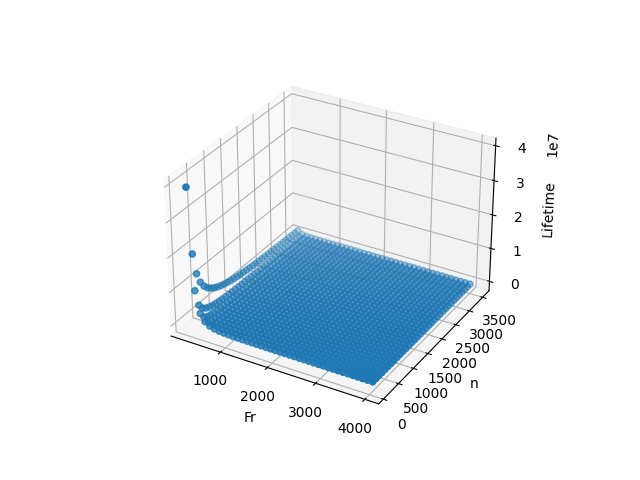
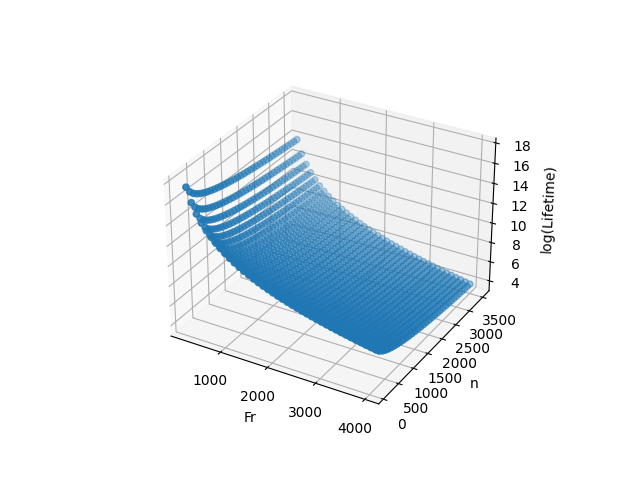
updated png

diff --git a/docs/main.tex b/docs/main.tex
@@ -114,7 +114,7 @@
 				\end{minipage}
 			\end{figure}
 			
-			\noindent After showing the info of the data and getting a general feel for the data set, we can see how the data points are related to each other with the same techniques from Chapter \ref{EDA}. We create a chart for every feature of a data point and get the charts in picture \ref{fig:EDA_crossplot}. the charts where we use \textit{Fr} and \textit{n} aren't correlated at all. In a more zoomed in we can se that the points are evenly distributed. This makes sense if the data is a systematic test, with the changing parameters of rotation n and radial Force Fr. In picture \ref{fig:EDA_3Dscatter} there is a 3D scatter of the data points with n and Fr on the x and y axis and the Lifetime on the z axis. It shows a better Picture of the data were the equal distributed points show a good visible plane. The lifetime increases rapidly when n and Fr go towards zero and shrink exponential when one of both parameters are increased.
+			\noindent After showing the info of the data and getting a general feel for the data set, we can see how the data points are related to each other with the same techniques from Chapter \ref{EDA}. We create a chart for every feature of a data point and get the charts in picture \ref{fig:EDA_crossplot}. the charts where we use \textit{Fr} and \textit{n} aren't correlated at all. In a more zoomed in we can se that the points are evenly distributed. This makes sense if the data is a systematic test, with the changing parameters of rotation n and radial Force Fr. In picture \ref{fig:EDA_3Dscatter} there is a 3D scatter of the data points with n and Fr on the x and y axis and the Logarithm of the Lifetime on the z axis. It shows a better Picture of the data were the equal distributed points show a good visible plane. The lifetime increases rapidly when n and Fr go towards zero and shrink exponential when one of both parameters are increased.
 	
 			\begin{figure}[H]
 				\centering
